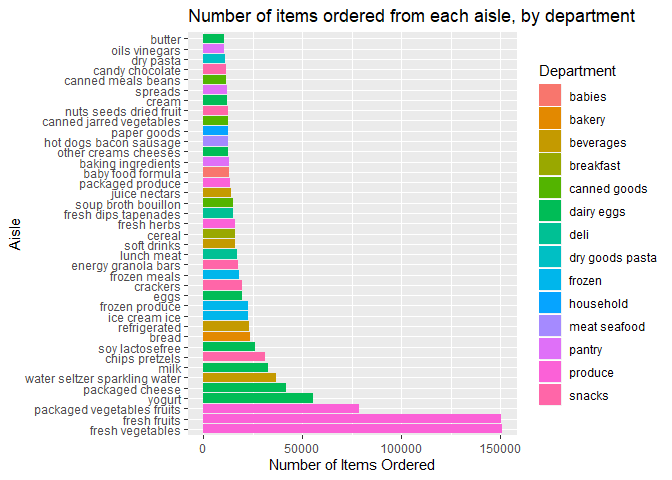
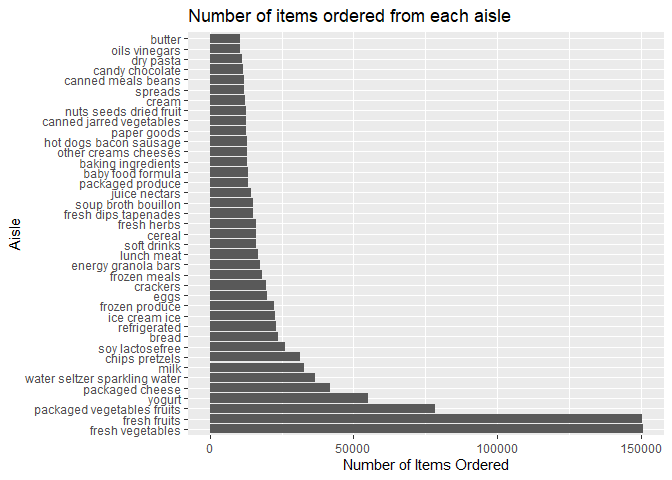
Final edits

Changed region(s): [[0.2812, 0.0625, 1.0, 1.0], [0.75, 0.0, 0.9375, 0.0625]]

diff --git a/p8105_HW3_rat2134.md b/p8105_HW3_rat2134.md
@@ -13,7 +13,6 @@ library(dplyr)
 library(knitr)
 library(p8105.datasets)
 library(janitor)
-library(patchwork)
 ```
 
 ## Problem 1
@@ -59,8 +58,8 @@ and 11 am (`order_hour_of_day` = 10). Item \#1 added to this user’s
 order was Bulgarian Yogurt (`product_id` = \#49302), from the yogurt
 aisle (aisle \#120) in the ‘dairy eggs’ department (`department_id` =
 \#16). This order was completed 9 days after the user’s previous order
-(order \#train). This user has ordered this product previously
-(`reordered` = 1).
+(order \#3). This user has ordered this product previously (`reordered`
+= 1).
 
 We can interpret each remaining row of the dataset in a similar way to
 obtain further information regarding the purchases of users over time.
@@ -98,10 +97,10 @@ instacart %>%
   group_by(aisle, department) %>%
   count(aisle) %>%
   filter(n > 10000) %>%
-  ggplot(aes(x = reorder(aisle, -n), y = n, fill = department)) +
+  ggplot(aes(x = reorder(aisle, -n), y = n)) +
     geom_bar(stat="identity") +
     labs(
-      title = "Number of items ordered from each aisle, by department",
+      title = "Number of items ordered from each aisle",
       x = "Aisle",
       y = "Number of Items Ordered",
       fill = "Department") +
@@ -110,9 +109,9 @@ instacart %>%
 
 ![](p8105_HW3_rat2134_files/figure-gfm/unnamed-chunk-4-1.png)<!-- -->
 
-Here, we can also see that the most items are ordered from the three
-aisles listed above, and these aisles are part of the ‘produce’ and
-‘dairy eggs’ departments.
+Here, we can also see that the most items are ordered from the `fresh
+vegetables`, `fresh fruits`, and `packaged vegetables fruits` aisles.
+All three of these aisles are part of the produce department.
 
 ``` r
 #Table showing the three most popular items in the 'baking ingredients' aisle
@@ -175,8 +174,8 @@ knitr::kable(Three_most_popular_items_in_aisles)
 We can see that the most ordered baking ingredients are light brown
 sugar, pure baking soda, and cane sugar. Similarly, the top three most
 ordered items in the ‘dog food care’ and ‘packaged vegetables fruits’
-aisles are provided. We can also see here that packaged fruits and
-vegetables are ordered by many more people than dog food and baking
+aisles are provided in the table above. We can also see that packaged
+fruits and vegetables are ordered much more than dog food and baking
 ingredients.
 
 ``` r
@@ -292,17 +291,19 @@ brfss_smart2010_TIDY %>%
 
 From the two tables above, we can see that at least 7 counties in
 Pennsylvania, Massachusetts, New Jersey, Connecticut, Florida, and North
-Carolina were observed in 2002. In 2010, at least 7 counties were
-observed in 14 states: Florida, New Jersey, Texas, California, Maryland,
-North Carolina, Nebraska, Washington, Massachusetts, New York, Ohio,
-Colorado, Pennsylvania, and South Carolina.
+Carolina were observed in 2002, in which Pennsylvania had the highest
+number of counties observed. In 2010, at least 7 counties were observed
+in 14 states: Florida, New Jersey, Texas, California, Maryland, North
+Carolina, Nebraska, Washington, Massachusetts, New York, Ohio, Colorado,
+Pennsylvania, and South Carolina, in which Florida had the highest
+number of counties observed.
 
 ``` r
 brfss_smart2010_TIDY %>%
   filter(response == "Excellent") %>%
   group_by(year, state) %>%
   summarize(average_data_value = mean(data_value)) %>%
-  ggplot(aes(x = year, y = average_data_value, color = state)) +
+  ggplot(aes(x = year, y = average_data_value, group = state)) +
     geom_line() +
     labs(
       title = "Average data value over time, by state",
@@ -310,12 +311,10 @@ brfss_smart2010_TIDY %>%
       y = "Average Data Value")
 ```
 
-    ## Warning: Removed 3 rows containing missing values (geom_path).
-
 ![](p8105_HW3_rat2134_files/figure-gfm/unnamed-chunk-9-1.png)<!-- -->
 
-From the plot above, we can see that the average data values within all
-50 states fall in the interval (10,30) from 2002-2010.
+From the plot above, we can see that the average data values in all 50
+states fall in the interval (10,30) from 2002-2010.
 
 ``` r
 #Two-panel plot showing distribution of 'data_value' for responses in NY
@@ -367,11 +366,12 @@ The `accel_data_TIDY` dataset represents daily accelerometer data, by
 minute, for an individual in the study. There are 50400 observations and
 6 variables:
 
-  - Week of the study (`week_of_study`, numeric vector) \[1-5\]
-  - Day of the study (`day_of_study`, numeric vector) \[total of 35
-    days\]
+  - Week of the study (`week_of_study`, numeric vector) \[1-5 weeks\]
+  - Day of the study (`day_of_study`, numeric vector) \[1-35 days\]
   - Day of the week (`day_of_week`, character vector)
-  - Minute of the day (`minute_of_day`, numeric vector) \[1-1440\]
+    \[Sunday-Saturday\]
+  - Minute of the day (`minute_of_day`, numeric vector) \[1-1440
+    minutes\]
   - Activity counts (`activity_counts`, numeric vector)
   - Weekend or weekday (`weekend`, numeric vector) \[0 = weekday, 1 =
     weekend\]
@@ -427,7 +427,7 @@ accel_data_TIDY %>%
 
 From the table above, we can see that the subject had the least amount
 of activity on days 24 and 31, and these are both Saturdays. The subject
-had the most amount of activity on day 16.
+had the most amount of activity on day 16, which is a Monday.
 
 ``` r
 #Single-panel plot that shows the 24-hour activity time courses for each day, by day of the week
@@ -449,4 +449,5 @@ accel_data_TIDY %>%
 From the plot above, we can see that the subject tends to have the
 lowest activity in the beginning of the day (0-250 minutes) and the
 highest activity later in the day (1125 - 1375 minutes) for each day of
-the week.
+the week. However, the subject has some peaks of high activity during
+some days between 300-750 minutes.
